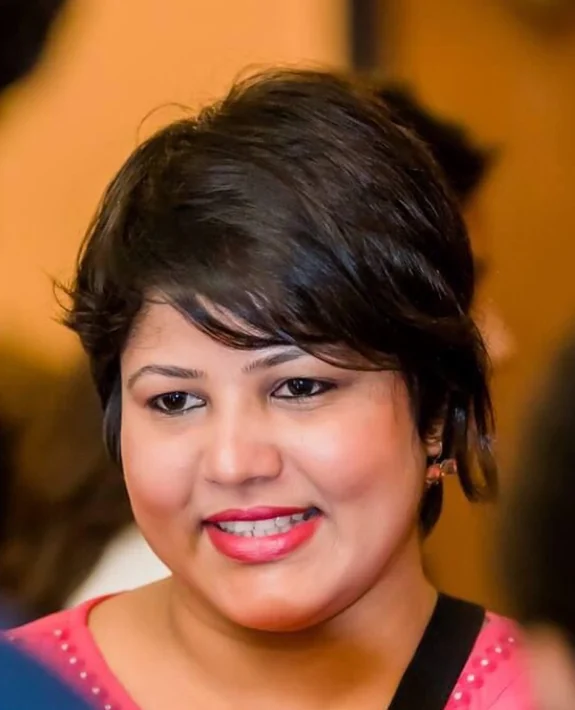
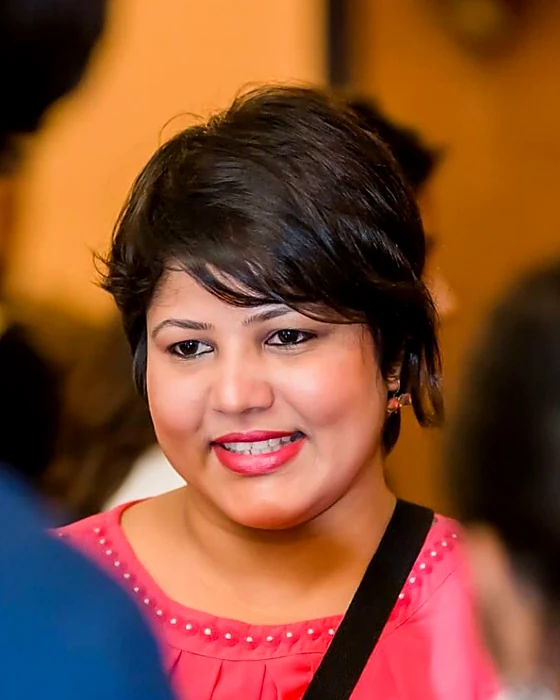
Sharper founder portrait; even spacing on the phone menu page

diff --git a/hair-colour-keratin-davangere.html b/hair-colour-keratin-davangere.html
@@ -20,7 +20,7 @@
 <link rel="apple-touch-icon" href="apple-touch-icon.png"><link rel="manifest" href="site.webmanifest">
 <link rel="preconnect" href="https://fonts.googleapis.com"><link rel="preconnect" href="https://fonts.gstatic.com" crossorigin>
 <link rel="stylesheet" href="https://fonts.googleapis.com/css2?family=Instrument+Serif:ital@0;1&family=Hanken+Grotesk:wght@400;500;600;700&display=swap">
-<link rel="stylesheet" href="css/site.css?v=9">
+<link rel="stylesheet" href="css/site.css?v=10">
 <script type="application/ld+json">[{"@context":"https://schema.org","@type":"Service","@id":"https://udaylal2k.github.io/shammy-site/hair-colour-keratin-davangere.html#service","name":"Hair colour, keratin and styling in Davangere","serviceType":"Hair salon service","description":"Hair colour, keratin, smoothing, cuts and hair spa in Davangere with L’Oréal Professionnel, Schwarzkopf and Wella. Led by Roopa G.R. Book on WhatsApp.","url":"https://udaylal2k.github.io/shammy-site/hair-colour-keratin-davangere.html","provider":{"@id":"https://udaylal2k.github.io/shammy-site/#business"},"areaServed":{"@type":"City","name":"Davangere"},"brand":[{"@type":"Brand","name":"L’Oréal Professionnel"},{"@type":"Brand","name":"Schwarzkopf"},{"@type":"Brand","name":"Wella Professionals"},{"@type":"Brand","name":"Moroccanoil"}],"hasOfferCatalog":{"@type":"OfferCatalog","name":"Hair colour, keratin and styling","itemListElement":[{"@type":"Offer","itemOffered":{"@type":"Service","name":"Basic Cut"}},{"@type":"Offer","itemOffered":{"@type":"Service","name":"Long Basic Cut"}},{"@type":"Offer","itemOffered":{"@type":"Service","name":"Long Layer Cut"}},{"@type":"Offer","itemOffered":{"@type":"Service","name":"Makeover"}},{"@type":"Offer","itemOffered":{"@type":"Service","name":"Director's Cut"}},{"@type":"Offer","itemOffered":{"@type":"Service","name":"Director's Long Layer Cut"}},{"@type":"Offer","itemOffered":{"@type":"Service","name":"Kids Hair Cut"}},{"@type":"Offer","itemOffered":{"@type":"Service","name":"Fringes"}},{"@type":"Offer","itemOffered":{"@type":"Service","name":"Single Highlights (min 3)"}},{"@type":"Offer","itemOffered":{"@type":"Service","name":"L'Oréal Ammonia-Free Colour"}},{"@type":"Offer","itemOffered":{"@type":"Service","name":"Root Touch Up"}},{"@type":"Offer","itemOffered":{"@type":"Service","name":"1 Inch Ammonia-Free"}},{"@type":"Offer","itemOffered":{"@type":"Service","name":"L'Oréal Texture Change"}},{"@type":"Offer","itemOffered":{"@type":"Service","name":"Smoothening (No Iron)"}},{"@type":"Offer","itemOffered":{"@type":"Service","name":"Straightening / Keratin"}},{"@type":"Offer","itemOffered":{"@type":"Service","name":"Coconut / Mint Oil"}},{"@type":"Offer","itemOffered":{"@type":"Service","name":"Olive / Almond Oil"}},{"@type":"Offer","itemOffered":{"@type":"Service","name":"Blend / Aroma Oil"}},{"@type":"Offer","itemOffered":{"@type":"Service","name":"Moroccanoil"}},{"@type":"Offer","itemOffered":{"@type":"Service","name":"L'Oréal Anti-Dandruff Treatment (No Massage)"}},{"@type":"Offer","itemOffered":{"@type":"Service","name":"Basic Spa (Cream)"}},{"@type":"Offer","itemOffered":{"@type":"Service","name":"Iluvia Nourishing (Cream)"}},{"@type":"Offer","itemOffered":{"@type":"Service","name":"Iluvia Repair (Cream & Oil)"}},{"@type":"Offer","itemOffered":{"@type":"Service","name":"Iluvia Smooth (Oil Massage & Cream)"}},{"@type":"Offer","itemOffered":{"@type":"Service","name":"Moroccanoil (Intense)"}},{"@type":"Offer","itemOffered":{"@type":"Service","name":"Regular Hair Cut"}},{"@type":"Offer","itemOffered":{"@type":"Service","name":"Stylish Hair Cut"}},{"@type":"Offer","itemOffered":{"@type":"Service","name":"Kids Regular Cut"}},{"@type":"Offer","itemOffered":{"@type":"Service","name":"Hair Wash & Styling"}},{"@type":"Offer","itemOffered":{"@type":"Service","name":"L'Oréal Half Head Ammonia-Free"}},{"@type":"Offer","itemOffered":{"@type":"Service","name":"L'Oréal Ammonia-Free"}},{"@type":"Offer","itemOffered":{"@type":"Service","name":"L'Oréal Fashion Colour"}},{"@type":"Offer","itemOffered":{"@type":"Service","name":"Beard Colouring"}},{"@type":"Offer","itemOffered":{"@type":"Service","name":"Moustache Colouring"}},{"@type":"Offer","itemOffered":{"@type":"Service","name":"Side Locks"}},{"@type":"Offer","itemOffered":{"@type":"Service","name":"L'Oréal Full Head Cap Streaks / Highlights"}},{"@type":"Offer","itemOffered":{"@type":"Service","name":"L'Oréal Per Streak / Highlight (min 3)"}},{"@type":"Offer","itemOffered":{"@type":"Service","name":"L'Oréal Straightening"}},{"@type":"Offer","itemOffered":{"@type":"Service","name":"Texture Change"}},{"@type":"Offer","itemOffered":{"@type":"Service","name":"L'Oréal Smoothening"}}]}},{"@context":"https://schema.org","@type":"WebPage","@id":"https://udaylal2k.github.io/shammy-site/hair-colour-keratin-davangere.html#webpage","url":"https://udaylal2k.github.io/shammy-site/hair-colour-keratin-davangere.html","name":"Hair Colour, Keratin & Styling in Davangere | Shaamy Lounge","isPartOf":{"@id":"https://udaylal2k.github.io/shammy-site/#website"},"about":{"@id":"https://udaylal2k.github.io/shammy-site/hair-colour-keratin-davangere.html#service"},"breadcrumb":{"@id":"https://udaylal2k.github.io/shammy-site/hair-colour-keratin-davangere.html#breadcrumb"}},{"@context":"https://schema.org","@type":"BreadcrumbList","itemListElement":[{"@type":"ListItem","position":1,"name":"Home","item":"https://udaylal2k.github.io/shammy-site/"},{"@type":"ListItem","position":2,"name":"Hair colour, keratin and styling","item":"https://udaylal2k.github.io/shammy-site/hair-colour-keratin-davangere.html"}],"@id":"https://udaylal2k.github.io/shammy-site/hair-colour-keratin-davangere.html#breadcrumb"},{"@context":"https://schema.org","@type":["HairSalon","BeautySalon"],"@id":"https://udaylal2k.github.io/shammy-site/#business","name":"Shaamy Lounge Unisex Salon","url":"https://udaylal2k.github.io/shammy-site/"}]</script>
 </head>
 <body>
@@ -53,5 +53,5 @@
 <p class="fine">Roma Salon – Shaamy Lounge Unisex Salon · GSTIN 29AJLPR1452M1ZL · © 2026 Shaamy Lounge</p>
 </footer>
 <nav class="dock" aria-label="Quick actions"><a href="tel:+919538316195">Call</a><a class="wa" href="https://wa.me/919538316195?text=Hello%20Shaamy%20Lounge%2C%20I%20would%20like%20to%20book%20an%20appointment." target="_blank" rel="noopener">WhatsApp</a><a href="menu.html">Menu</a></nav>
-<script src="js/site.js?v=9" defer></script>
+<script src="js/site.js?v=10" defer></script>
 </body></html>

diff --git a/mens-grooming-davangere.html b/mens-grooming-davangere.html
@@ -20,7 +20,7 @@
 <link rel="apple-touch-icon" href="apple-touch-icon.png"><link rel="manifest" href="site.webmanifest">
 <link rel="preconnect" href="https://fonts.googleapis.com"><link rel="preconnect" href="https://fonts.gstatic.com" crossorigin>
 <link rel="stylesheet" href="https://fonts.googleapis.com/css2?family=Instrument+Serif:ital@0;1&family=Hanken+Grotesk:wght@400;500;600;700&display=swap">
-<link rel="stylesheet" href="css/site.css?v=9">
+<link rel="stylesheet" href="css/site.css?v=10">
 <script type="application/ld+json">[{"@context":"https://schema.org","@type":"Service","@id":"https://udaylal2k.github.io/shammy-site/mens-grooming-davangere.html#service","name":"Men's grooming in Davangere","serviceType":"Men's grooming service","description":"Men's haircuts, beard shape, hair colour, keratin, hair spa, facials and waxing in Davangere at Shaamy Lounge unisex salon. Book on WhatsApp.","url":"https://udaylal2k.github.io/shammy-site/mens-grooming-davangere.html","provider":{"@id":"https://udaylal2k.github.io/shammy-site/#business"},"areaServed":{"@type":"City","name":"Davangere"},"brand":[{"@type":"Brand","name":"L’Oréal Professionnel"},{"@type":"Brand","name":"Moroccanoil"},{"@type":"Brand","name":"Kanpeki Japan"},{"@type":"Brand","name":"O3+"}],"hasOfferCatalog":{"@type":"OfferCatalog","name":"Men's grooming","itemListElement":[{"@type":"Offer","itemOffered":{"@type":"Service","name":"Regular Hair Cut"}},{"@type":"Offer","itemOffered":{"@type":"Service","name":"Stylish Hair Cut"}},{"@type":"Offer","itemOffered":{"@type":"Service","name":"Kids Regular Cut"}},{"@type":"Offer","itemOffered":{"@type":"Service","name":"Hair Wash & Styling"}},{"@type":"Offer","itemOffered":{"@type":"Service","name":"Beard Shape"}},{"@type":"Offer","itemOffered":{"@type":"Service","name":"Head Shave with Wash"}},{"@type":"Offer","itemOffered":{"@type":"Service","name":"L'Oréal Half Head Ammonia-Free"}},{"@type":"Offer","itemOffered":{"@type":"Service","name":"L'Oréal Ammonia-Free"}},{"@type":"Offer","itemOffered":{"@type":"Service","name":"L'Oréal Fashion Colour"}},{"@type":"Offer","itemOffered":{"@type":"Service","name":"Beard Colouring"}},{"@type":"Offer","itemOffered":{"@type":"Service","name":"Moustache Colouring"}},{"@type":"Offer","itemOffered":{"@type":"Service","name":"Side Locks"}},{"@type":"Offer","itemOffered":{"@type":"Service","name":"L'Oréal Full Head Cap Streaks / Highlights"}},{"@type":"Offer","itemOffered":{"@type":"Service","name":"L'Oréal Per Streak / Highlight (min 3)"}},{"@type":"Offer","itemOffered":{"@type":"Service","name":"Iluvia Nourishing (Cream)"}},{"@type":"Offer","itemOffered":{"@type":"Service","name":"L'Oréal Anti-Dandruff Spa"}},{"@type":"Offer","itemOffered":{"@type":"Service","name":"L'Oréal Clear Dose per Tube (Intense Dandruff)"}},{"@type":"Offer","itemOffered":{"@type":"Service","name":"L'Oréal Basic Spa (Cream)"}},{"@type":"Offer","itemOffered":{"@type":"Service","name":"Iluvia Repair (Cream & Oil)"}},{"@type":"Offer","itemOffered":{"@type":"Service","name":"Iluvia Smooth (Head Massage & Cream)"}},{"@type":"Offer","itemOffered":{"@type":"Service","name":"Moroccanoil Spa (Intense Treatment)"}},{"@type":"Offer","itemOffered":{"@type":"Service","name":"Basic Clean Up"}},{"@type":"Offer","itemOffered":{"@type":"Service","name":"Kanpeki (Japanese) Clean Up"}},{"@type":"Offer","itemOffered":{"@type":"Service","name":"Lotus Clean Up"}},{"@type":"Offer","itemOffered":{"@type":"Service","name":"O3 Clean Up"}},{"@type":"Offer","itemOffered":{"@type":"Service","name":"Sea Soul Organic (Australia)"}},{"@type":"Offer","itemOffered":{"@type":"Service","name":"Whitening Masque for Tanned Skin"}},{"@type":"Offer","itemOffered":{"@type":"Service","name":"Casmara Masque for All Skin Types"}},{"@type":"Offer","itemOffered":{"@type":"Service","name":"Eye Treatment"}},{"@type":"Offer","itemOffered":{"@type":"Service","name":"Kanpeki Fruit Facial"}},{"@type":"Offer","itemOffered":{"@type":"Service","name":"Absolute Lift for Aged Skin"}},{"@type":"Offer","itemOffered":{"@type":"Service","name":"O3 Whitening Facial"}},{"@type":"Offer","itemOffered":{"@type":"Service","name":"Lotus White Glow Facial"}},{"@type":"Offer","itemOffered":{"@type":"Service","name":"Instant Glow VLCC"}},{"@type":"Offer","itemOffered":{"@type":"Service","name":"Face"}},{"@type":"Offer","itemOffered":{"@type":"Service","name":"Neck"}},{"@type":"Offer","itemOffered":{"@type":"Service","name":"Face & Neck"}},{"@type":"Offer","itemOffered":{"@type":"Service","name":"Under Arms"}},{"@type":"Offer","itemOffered":{"@type":"Service","name":"Half Arms"}},{"@type":"Offer","itemOffered":{"@type":"Service","name":"Full Arms"}}]}},{"@context":"https://schema.org","@type":"WebPage","@id":"https://udaylal2k.github.io/shammy-site/mens-grooming-davangere.html#webpage","url":"https://udaylal2k.github.io/shammy-site/mens-grooming-davangere.html","name":"Men's Grooming, Haircut & Beard in Davangere | Shaamy Lounge","isPartOf":{"@id":"https://udaylal2k.github.io/shammy-site/#website"},"about":{"@id":"https://udaylal2k.github.io/shammy-site/mens-grooming-davangere.html#service"},"breadcrumb":{"@id":"https://udaylal2k.github.io/shammy-site/mens-grooming-davangere.html#breadcrumb"}},{"@context":"https://schema.org","@type":"BreadcrumbList","itemListElement":[{"@type":"ListItem","position":1,"name":"Home","item":"https://udaylal2k.github.io/shammy-site/"},{"@type":"ListItem","position":2,"name":"Men's grooming","item":"https://udaylal2k.github.io/shammy-site/mens-grooming-davangere.html"}],"@id":"https://udaylal2k.github.io/shammy-site/mens-grooming-davangere.html#breadcrumb"},{"@context":"https://schema.org","@type":["HairSalon","BeautySalon"],"@id":"https://udaylal2k.github.io/shammy-site/#business","name":"Shaamy Lounge Unisex Salon","url":"https://udaylal2k.github.io/shammy-site/"}]</script>
 </head>
 <body>
@@ -53,5 +53,5 @@
 <p class="fine">Roma Salon – Shaamy Lounge Unisex Salon · GSTIN 29AJLPR1452M1ZL · © 2026 Shaamy Lounge</p>
 </footer>
 <nav class="dock" aria-label="Quick actions"><a href="tel:+919538316195">Call</a><a class="wa" href="https://wa.me/919538316195?text=Hello%20Shaamy%20Lounge%2C%20I%20would%20like%20to%20book%20an%20appointment." target="_blank" rel="noopener">WhatsApp</a><a href="menu.html">Menu</a></nav>
-<script src="js/site.js?v=9" defer></script>
+<script src="js/site.js?v=10" defer></script>
 </body></html>

diff --git a/facials-skin-treatments-davangere.html b/facials-skin-treatments-davangere.html
@@ -20,7 +20,7 @@
 <link rel="apple-touch-icon" href="apple-touch-icon.png"><link rel="manifest" href="site.webmanifest">
 <link rel="preconnect" href="https://fonts.googleapis.com"><link rel="preconnect" href="https://fonts.gstatic.com" crossorigin>
 <link rel="stylesheet" href="https://fonts.googleapis.com/css2?family=Instrument+Serif:ital@0;1&family=Hanken+Grotesk:wght@400;500;600;700&display=swap">
-<link rel="stylesheet" href="css/site.css?v=9">
+<link rel="stylesheet" href="css/site.css?v=10">
 <script type="application/ld+json">[{"@context":"https://schema.org","@type":"Service","@id":"https://udaylal2k.github.io/shammy-site/facials-skin-treatments-davangere.html#service","name":"Facials and skin treatments in Davangere","serviceType":"Facial and skin care service","description":"Restorative facials, hydra facials, clean-ups, de-tan and body massage in Davangere using Kanpeki, Janssen, O3+ and Kryolan. Book on WhatsApp.","url":"https://udaylal2k.github.io/shammy-site/facials-skin-treatments-davangere.html","provider":{"@id":"https://udaylal2k.github.io/shammy-site/#business"},"areaServed":{"@type":"City","name":"Davangere"},"brand":[{"@type":"Brand","name":"Kanpeki Japan"},{"@type":"Brand","name":"Janssen Germany"},{"@type":"Brand","name":"O3+"},{"@type":"Brand","name":"Kryolan"},{"@type":"Brand","name":"HydraFacial"}],"hasOfferCatalog":{"@type":"OfferCatalog","name":"Facials and skin treatments","itemListElement":[{"@type":"Offer","itemOffered":{"@type":"Service","name":"Basic Clean Up"}},{"@type":"Offer","itemOffered":{"@type":"Service","name":"Kanpeki (Japanese) Clean Up"}},{"@type":"Offer","itemOffered":{"@type":"Service","name":"Lotus Clean Up"}},{"@type":"Offer","itemOffered":{"@type":"Service","name":"O3 Clean Up"}},{"@type":"Offer","itemOffered":{"@type":"Service","name":"Sea Soul Organic (Australia)"}},{"@type":"Offer","itemOffered":{"@type":"Service","name":"Whitening Masque for Tanned Skin"}},{"@type":"Offer","itemOffered":{"@type":"Service","name":"Casmara Masque for All Skin Types"}},{"@type":"Offer","itemOffered":{"@type":"Service","name":"Eye Treatment"}},{"@type":"Offer","itemOffered":{"@type":"Service","name":"Kanpeki Fruit Facial"}},{"@type":"Offer","itemOffered":{"@type":"Service","name":"Absolute Lift for Aged Skin"}},{"@type":"Offer","itemOffered":{"@type":"Service","name":"O3 Whitening Facial"}},{"@type":"Offer","itemOffered":{"@type":"Service","name":"Lotus White Glow Facial"}},{"@type":"Offer","itemOffered":{"@type":"Service","name":"Instant Glow VLCC"}},{"@type":"Offer","itemOffered":{"@type":"Service","name":"Dead Sea Mineral Facial"}},{"@type":"Offer","itemOffered":{"@type":"Service","name":"CC Derma Crystal Clear Facial"}},{"@type":"Offer","itemOffered":{"@type":"Service","name":"Kanpeki Quinoa Facial"}},{"@type":"Offer","itemOffered":{"@type":"Service","name":"Charcoal Facial"}},{"@type":"Offer","itemOffered":{"@type":"Service","name":"Cryo Pigmentation Facial"}},{"@type":"Offer","itemOffered":{"@type":"Service","name":"Blanch Facial"}},{"@type":"Offer","itemOffered":{"@type":"Service","name":"Lotus Facial"}},{"@type":"Offer","itemOffered":{"@type":"Service","name":"Save the Date Bridal Facial"}},{"@type":"Offer","itemOffered":{"@type":"Service","name":"O3 Bridal Facial"}},{"@type":"Offer","itemOffered":{"@type":"Service","name":"Janssen Bridal Whitening Facial"}},{"@type":"Offer","itemOffered":{"@type":"Service","name":"Relaxing Body Massage"}},{"@type":"Offer","itemOffered":{"@type":"Service","name":"Kanpeki Body Spa"}},{"@type":"Offer","itemOffered":{"@type":"Service","name":"Full Back Scrubbing"}},{"@type":"Offer","itemOffered":{"@type":"Service","name":"Full Legs Massage"}},{"@type":"Offer","itemOffered":{"@type":"Service","name":"Body Spa"}},{"@type":"Offer","itemOffered":{"@type":"Service","name":"Deep Tissue Body Massage"}},{"@type":"Offer","itemOffered":{"@type":"Service","name":"Back Massage"}},{"@type":"Offer","itemOffered":{"@type":"Service","name":"Face"}},{"@type":"Offer","itemOffered":{"@type":"Service","name":"Neck"}},{"@type":"Offer","itemOffered":{"@type":"Service","name":"Face & Neck"}},{"@type":"Offer","itemOffered":{"@type":"Service","name":"Under Arms"}},{"@type":"Offer","itemOffered":{"@type":"Service","name":"Half Arms"}},{"@type":"Offer","itemOffered":{"@type":"Service","name":"Full Arms"}},{"@type":"Offer","itemOffered":{"@type":"Service","name":"Lower Back"}},{"@type":"Offer","itemOffered":{"@type":"Service","name":"Upper Back"}},{"@type":"Offer","itemOffered":{"@type":"Service","name":"Full Back"}},{"@type":"Offer","itemOffered":{"@type":"Service","name":"Stomach"}}]}},{"@context":"https://schema.org","@type":"WebPage","@id":"https://udaylal2k.github.io/shammy-site/facials-skin-treatments-davangere.html#webpage","url":"https://udaylal2k.github.io/shammy-site/facials-skin-treatments-davangere.html","name":"Facials & Skin Treatments in Davangere | Shaamy Lounge","isPartOf":{"@id":"https://udaylal2k.github.io/shammy-site/#website"},"about":{"@id":"https://udaylal2k.github.io/shammy-site/facials-skin-treatments-davangere.html#service"},"breadcrumb":{"@id":"https://udaylal2k.github.io/shammy-site/facials-skin-treatments-davangere.html#breadcrumb"}},{"@context":"https://schema.org","@type":"BreadcrumbList","itemListElement":[{"@type":"ListItem","position":1,"name":"Home","item":"https://udaylal2k.github.io/shammy-site/"},{"@type":"ListItem","position":2,"name":"Facials and skin treatments","item":"https://udaylal2k.github.io/shammy-site/facials-skin-treatments-davangere.html"}],"@id":"https://udaylal2k.github.io/shammy-site/facials-skin-treatments-davangere.html#breadcrumb"},{"@context":"https://schema.org","@type":["HairSalon","BeautySalon"],"@id":"https://udaylal2k.github.io/shammy-site/#business","name":"Shaamy Lounge Unisex Salon","url":"https://udaylal2k.github.io/shammy-site/"}]</script>
 </head>
 <body>
@@ -53,5 +53,5 @@
 <p class="fine">Roma Salon – Shaamy Lounge Unisex Salon · GSTIN 29AJLPR1452M1ZL · © 2026 Shaamy Lounge</p>
 </footer>
 <nav class="dock" aria-label="Quick actions"><a href="tel:+919538316195">Call</a><a class="wa" href="https://wa.me/919538316195?text=Hello%20Shaamy%20Lounge%2C%20I%20would%20like%20to%20book%20an%20appointment." target="_blank" rel="noopener">WhatsApp</a><a href="menu.html">Menu</a></nav>
-<script src="js/site.js?v=9" defer></script>
+<script src="js/site.js?v=10" defer></script>
 </body></html>

diff --git a/bridal-makeup-davangere.html b/bridal-makeup-davangere.html
@@ -20,7 +20,7 @@
 <link rel="apple-touch-icon" href="apple-touch-icon.png"><link rel="manifest" href="site.webmanifest">
 <link rel="preconnect" href="https://fonts.googleapis.com"><link rel="preconnect" href="https://fonts.gstatic.com" crossorigin>
 <link rel="stylesheet" href="https://fonts.googleapis.com/css2?family=Instrument+Serif:ital@0;1&family=Hanken+Grotesk:wght@400;500;600;700&display=swap">
-<link rel="stylesheet" href="css/site.css?v=9">
+<link rel="stylesheet" href="css/site.css?v=10">
 <script type="application/ld+json">[{"@context":"https://schema.org","@type":"Service","@id":"https://udaylal2k.github.io/shammy-site/bridal-makeup-davangere.html#service","name":"Bridal and occasion makeup in Davangere","serviceType":"Bridal makeup service","description":"Bridal and occasion makeup in Davangere by Roopa G.R., trained with Pivot Point, Kryolan and Dominic Cruz. MAC, Kryolan, HD and airbrush. Book a trial.","url":"https://udaylal2k.github.io/shammy-site/bridal-makeup-davangere.html","provider":{"@id":"https://udaylal2k.github.io/shammy-site/#business"},"areaServed":{"@type":"City","name":"Davangere"},"brand":[{"@type":"Brand","name":"MAC"},{"@type":"Brand","name":"Kryolan"},{"@type":"Brand","name":"HydraFacial"},{"@type":"Brand","name":"Janssen Germany"}],"hasOfferCatalog":{"@type":"OfferCatalog","name":"Bridal and occasion makeup","itemListElement":[{"@type":"Offer","itemOffered":{"@type":"Service","name":"Trial MAC"}},{"@type":"Offer","itemOffered":{"@type":"Service","name":"Trial Hair Do"}},{"@type":"Offer","itemOffered":{"@type":"Service","name":"Toppik Hair Filler"}},{"@type":"Offer","itemOffered":{"@type":"Service","name":"Saree Draping"}},{"@type":"Offer","itemOffered":{"@type":"Service","name":"Only Eyes"}},{"@type":"Offer","itemOffered":{"@type":"Service","name":"Party Makeup"}},{"@type":"Offer","itemOffered":{"@type":"Service","name":"Advanced Party Makeup"}},{"@type":"Offer","itemOffered":{"@type":"Service","name":"Complete Kryolan Makeup"}},{"@type":"Offer","itemOffered":{"@type":"Service","name":"Complete MAC Makeup"}},{"@type":"Offer","itemOffered":{"@type":"Service","name":"Complete HD Makeup"}},{"@type":"Offer","itemOffered":{"@type":"Service","name":"Complete Airbrush Makeup"}},{"@type":"Offer","itemOffered":{"@type":"Service","name":"Bridesmaid Regular"}},{"@type":"Offer","itemOffered":{"@type":"Service","name":"Bridesmaid Kryolan"}},{"@type":"Offer","itemOffered":{"@type":"Service","name":"Bridesmaid MAC"}},{"@type":"Offer","itemOffered":{"@type":"Service","name":"Bridesmaid MAC with Concealing & Contouring"}},{"@type":"Offer","itemOffered":{"@type":"Service","name":"Save the Date Bridal Facial"}},{"@type":"Offer","itemOffered":{"@type":"Service","name":"O3 Bridal Facial"}},{"@type":"Offer","itemOffered":{"@type":"Service","name":"Janssen Bridal Whitening Facial"}},{"@type":"Offer","itemOffered":{"@type":"Service","name":"Sides"}},{"@type":"Offer","itemOffered":{"@type":"Service","name":"Full Face"}},{"@type":"Offer","itemOffered":{"@type":"Service","name":"Under Arms"}},{"@type":"Offer","itemOffered":{"@type":"Service","name":"Half Arms"}},{"@type":"Offer","itemOffered":{"@type":"Service","name":"3/4 Arms"}},{"@type":"Offer","itemOffered":{"@type":"Service","name":"Full Arms"}},{"@type":"Offer","itemOffered":{"@type":"Service","name":"Upper Lip"}},{"@type":"Offer","itemOffered":{"@type":"Service","name":"Chin"}},{"@type":"Offer","itemOffered":{"@type":"Service","name":"Forehead"}},{"@type":"Offer","itemOffered":{"@type":"Service","name":"Lower Back"}},{"@type":"Offer","itemOffered":{"@type":"Service","name":"Upper Back"}},{"@type":"Offer","itemOffered":{"@type":"Service","name":"Full Back"}},{"@type":"Offer","itemOffered":{"@type":"Service","name":"Mid Rib"}},{"@type":"Offer","itemOffered":{"@type":"Service","name":"Stomach"}},{"@type":"Offer","itemOffered":{"@type":"Service","name":"Half Legs"}},{"@type":"Offer","itemOffered":{"@type":"Service","name":"3/4 Legs"}},{"@type":"Offer","itemOffered":{"@type":"Service","name":"Full Legs"}},{"@type":"Offer","itemOffered":{"@type":"Service","name":"Bikini Line"}},{"@type":"Offer","itemOffered":{"@type":"Service","name":"Bikini Wax"}},{"@type":"Offer","itemOffered":{"@type":"Service","name":"Full Body"}},{"@type":"Offer","itemOffered":{"@type":"Service","name":"Cut & File"}},{"@type":"Offer","itemOffered":{"@type":"Service","name":"Basic Manicure (Scrub Only)"}}]}},{"@context":"https://schema.org","@type":"WebPage","@id":"https://udaylal2k.github.io/shammy-site/bridal-makeup-davangere.html#webpage","url":"https://udaylal2k.github.io/shammy-site/bridal-makeup-davangere.html","name":"Bridal & Party Makeup in Davangere | Shaamy Lounge","isPartOf":{"@id":"https://udaylal2k.github.io/shammy-site/#website"},"about":{"@id":"https://udaylal2k.github.io/shammy-site/bridal-makeup-davangere.html#service"},"breadcrumb":{"@id":"https://udaylal2k.github.io/shammy-site/bridal-makeup-davangere.html#breadcrumb"}},{"@context":"https://schema.org","@type":"BreadcrumbList","itemListElement":[{"@type":"ListItem","position":1,"name":"Home","item":"https://udaylal2k.github.io/shammy-site/"},{"@type":"ListItem","position":2,"name":"Bridal and occasion makeup","item":"https://udaylal2k.github.io/shammy-site/bridal-makeup-davangere.html"}],"@id":"https://udaylal2k.github.io/shammy-site/bridal-makeup-davangere.html#breadcrumb"},{"@context":"https://schema.org","@type":["HairSalon","BeautySalon"],"@id":"https://udaylal2k.github.io/shammy-site/#business","name":"Shaamy Lounge Unisex Salon","url":"https://udaylal2k.github.io/shammy-site/"}]</script>
 </head>
 <body>
@@ -53,5 +53,5 @@
 <p class="fine">Roma Salon – Shaamy Lounge Unisex Salon · GSTIN 29AJLPR1452M1ZL · © 2026 Shaamy Lounge</p>
 </footer>
 <nav class="dock" aria-label="Quick actions"><a href="tel:+919538316195">Call</a><a class="wa" href="https://wa.me/919538316195?text=Hello%20Shaamy%20Lounge%2C%20I%20would%20like%20to%20book%20an%20appointment." target="_blank" rel="noopener">WhatsApp</a><a href="menu.html">Menu</a></nav>
-<script src="js/site.js?v=9" defer></script>
+<script src="js/site.js?v=10" defer></script>
 </body></html>

diff --git a/index.html b/index.html
@@ -20,7 +20,7 @@
 <link rel="apple-touch-icon" href="apple-touch-icon.png"><link rel="manifest" href="site.webmanifest">
 <link rel="preconnect" href="https://fonts.googleapis.com"><link rel="preconnect" href="https://fonts.gstatic.com" crossorigin>
 <link rel="stylesheet" href="https://fonts.googleapis.com/css2?family=Instrument+Serif:ital@0;1&family=Hanken+Grotesk:wght@400;500;600;700&display=swap">
-<link rel="stylesheet" href="css/site.css?v=9">
+<link rel="stylesheet" href="css/site.css?v=10">
 <link rel="preload" as="image" href="images/roopa-hero.webp" type="image/webp"><script type="application/ld+json">[{"@context":"https://schema.org","@type":["HairSalon","BeautySalon"],"@id":"https://udaylal2k.github.io/shammy-site/#business","name":"Shaamy Lounge Unisex Salon","alternateName":"Shaamy Lounge","url":"https://udaylal2k.github.io/shammy-site/","logo":"https://udaylal2k.github.io/shammy-site/images/icon-512.png","image":["https://udaylal2k.github.io/shammy-site/images/og-image.jpg","https://udaylal2k.github.io/shammy-site/images/salon-floor.jpg","https://udaylal2k.github.io/shammy-site/images/reception.jpg"],"description":"Davangere's luxury unisex salon for hair colour, keratin, facials, bridal makeup and men's grooming, led by Roopa G.R. with 20+ years of experience.","telephone":["+91 9538316195","+91 9620716325"],"email":"roopargujjar@gmail.com","foundingDate":"2015","hasMap":"https://www.google.com/maps/search/?api=1&query=Shaamy+Lounge+Unisex+Salon+MCC+B+Block+Davangere","address":{"@type":"PostalAddress","streetAddress":"4th Main Road, 3rd Cross, Above Biba Clothing Store, MCC B Block","addressLocality":"Davangere","addressRegion":"Karnataka","postalCode":"577004","addressCountry":"IN"},"areaServed":{"@type":"City","name":"Davangere"},"founder":{"@type":"Person","name":"Roopa G.R","jobTitle":"Founder, hair stylist, makeup artist and skin consultant","alumniOf":["L’Oréal Hair Academy","TONI&GUY Singapore","Pivot Point","Kryolan","Thalion France"]},"taxID":"29AJLPR1452M1ZL","makesOffer":[{"@type":"Offer","itemOffered":{"@type":"Service","name":"Hair colour, keratin and styling","url":"https://udaylal2k.github.io/shammy-site/hair-colour-keratin-davangere.html"}},{"@type":"Offer","itemOffered":{"@type":"Service","name":"Facials and skin treatments","url":"https://udaylal2k.github.io/shammy-site/facials-skin-treatments-davangere.html"}},{"@type":"Offer","itemOffered":{"@type":"Service","name":"Bridal and occasion makeup","url":"https://udaylal2k.github.io/shammy-site/bridal-makeup-davangere.html"}},{"@type":"Offer","itemOffered":{"@type":"Service","name":"Men's grooming","url":"https://udaylal2k.github.io/shammy-site/mens-grooming-davangere.html"}}]},{"@context":"https://schema.org","@type":"WebSite","@id":"https://udaylal2k.github.io/shammy-site/#website","url":"https://udaylal2k.github.io/shammy-site/","name":"Shaamy Lounge","inLanguage":"en-IN","publisher":{"@id":"https://udaylal2k.github.io/shammy-site/#business"}},{"@context":"https://schema.org","@type":"WebPage","@id":"https://udaylal2k.github.io/shammy-site/#webpage","url":"https://udaylal2k.github.io/shammy-site/","name":"Shaamy Lounge | Luxury Unisex Salon in Davangere","isPartOf":{"@id":"https://udaylal2k.github.io/shammy-site/#website"},"about":{"@id":"https://udaylal2k.github.io/shammy-site/#business"},"primaryImageOfPage":"https://udaylal2k.github.io/shammy-site/images/og-image.jpg"}]</script>
 </head>
 <body>
@@ -35,7 +35,7 @@
 <div class="head">
 <h1><span class="nm" data-split>Roopa G.R.</span><span class="role">Founder of Shaamy Lounge, Davangere</span></h1>
 </div>
-<div class="pic"><div class="frame"><picture><source type="image/webp" srcset="images/roopa-hero-640.webp 575w, images/roopa-hero.webp 862w" sizes="(min-width:901px) 40vw, 92vw"><img src="images/roopa-hero.jpg" alt="Roopa G.R., founder of Shaamy Lounge, smiling" width="862" height="1065" fetchpriority="high" decoding="async"></picture><p class="plate"><span><b>Roopa G.R.</b> Hair · Makeup · Skin</span><img src="images/logo-brand.png" alt="Shaamy Lounge Unisex Saloon" width="999" height="183"></p></div></div>
+<div class="pic"><div class="frame"><picture><source type="image/webp" srcset="images/roopa-hero-640.webp 560w, images/roopa-hero.webp 710w" sizes="(min-width:901px) 40vw, 92vw"><img src="images/roopa-hero.jpg" alt="Roopa G.R., founder of Shaamy Lounge, smiling" width="710" height="888" fetchpriority="high" decoding="async"></picture><p class="plate"><span><b>Roopa G.R.</b> Hair · Makeup · Skin</span><img src="images/logo-brand.png" alt="Shaamy Lounge Unisex Saloon" width="999" height="183"></p></div></div>
 <div class="foot">
 <p class="lead">Hair stylist, makeup artist and skin consultant with 20+ years of craft, trained with L’Oréal, TONI&amp;GUY Singapore and Pivot Point. She leads Davangere’s luxury unisex salon on MCC B Block.</p>
 <div class="actions"><a class="btn" data-magnetic href="#book">Book with Roopa</a><a class="btn ghost" href="menu.html">See the menu</a></div>
@@ -153,5 +153,5 @@
 <p class="fine">Roma Salon – Shaamy Lounge Unisex Salon · GSTIN 29AJLPR1452M1ZL · © 2026 Shaamy Lounge</p>
 </footer>
 <nav class="dock" aria-label="Quick actions"><a href="tel:+919538316195">Call</a><a class="wa" href="https://wa.me/919538316195?text=Hello%20Shaamy%20Lounge%2C%20I%20would%20like%20to%20book%20an%20appointment." target="_blank" rel="noopener">WhatsApp</a><a href="menu.html">Menu</a></nav>
-<script src="js/site.js?v=9" defer></script>
+<script src="js/site.js?v=10" defer></script>
 </body></html>

diff --git a/story.html b/story.html
@@ -20,7 +20,7 @@
 <link rel="apple-touch-icon" href="apple-touch-icon.png"><link rel="manifest" href="site.webmanifest">
 <link rel="preconnect" href="https://fonts.googleapis.com"><link rel="preconnect" href="https://fonts.gstatic.com" crossorigin>
 <link rel="stylesheet" href="https://fonts.googleapis.com/css2?family=Instrument+Serif:ital@0;1&family=Hanken+Grotesk:wght@400;500;600;700&display=swap">
-<link rel="stylesheet" href="css/site.css?v=9">
+<link rel="stylesheet" href="css/site.css?v=10">
 <script type="application/ld+json">[{"@context":"https://schema.org","@type":"AboutPage","@id":"https://udaylal2k.github.io/shammy-site/story.html#webpage","url":"https://udaylal2k.github.io/shammy-site/story.html","name":"Our Story: Roopa G.R. & Shaamy Lounge","isPartOf":{"@id":"https://udaylal2k.github.io/shammy-site/#website"},"about":{"@id":"https://udaylal2k.github.io/shammy-site/story.html#roopa"},"breadcrumb":{"@id":"https://udaylal2k.github.io/shammy-site/story.html#breadcrumb"}},{"@context":"https://schema.org","@type":"Person","@id":"https://udaylal2k.github.io/shammy-site/story.html#roopa","name":"Roopa G.R","jobTitle":"Founder, hair stylist, makeup artist, colorist and skin consultant","image":"https://udaylal2k.github.io/shammy-site/images/roopa.jpg","worksFor":{"@id":"https://udaylal2k.github.io/shammy-site/#business"},"alumniOf":["L’Oréal Hair Academy","TONI&GUY Singapore","Pivot Point","Kryolan","Thalion France","City & Guilds"],"knowsAbout":["Hair colouring","Keratin treatments","Bridal makeup","Skin care","Hair styling"]},{"@context":"https://schema.org","@type":"BreadcrumbList","itemListElement":[{"@type":"ListItem","position":1,"name":"Home","item":"https://udaylal2k.github.io/shammy-site/"},{"@type":"ListItem","position":2,"name":"Our story","item":"https://udaylal2k.github.io/shammy-site/story.html"}],"@id":"https://udaylal2k.github.io/shammy-site/story.html#breadcrumb"},{"@context":"https://schema.org","@type":["HairSalon","BeautySalon"],"@id":"https://udaylal2k.github.io/shammy-site/#business","name":"Shaamy Lounge Unisex Salon","url":"https://udaylal2k.github.io/shammy-site/"}]</script>
 </head>
 <body>
@@ -47,5 +47,5 @@
 <p class="fine">Roma Salon – Shaamy Lounge Unisex Salon · GSTIN 29AJLPR1452M1ZL · © 2026 Shaamy Lounge</p>
 </footer>
 <nav class="dock" aria-label="Quick actions"><a href="tel:+919538316195">Call</a><a class="wa" href="https://wa.me/919538316195?text=Hello%20Shaamy%20Lounge%2C%20I%20would%20like%20to%20book%20an%20appointment." target="_blank" rel="noopener">WhatsApp</a><a href="menu.html">Menu</a></nav>
-<script src="js/site.js?v=9" defer></script>
+<script src="js/site.js?v=10" defer></script>
 </body></html>

diff --git a/menu.html b/menu.html
@@ -20,7 +20,7 @@
 <link rel="apple-touch-icon" href="apple-touch-icon.png"><link rel="manifest" href="site.webmanifest">
 <link rel="preconnect" href="https://fonts.googleapis.com"><link rel="preconnect" href="https://fonts.gstatic.com" crossorigin>
 <link rel="stylesheet" href="https://fonts.googleapis.com/css2?family=Instrument+Serif:ital@0;1&family=Hanken+Grotesk:wght@400;500;600;700&display=swap">
-<link rel="stylesheet" href="css/site.css?v=9">
+<link rel="stylesheet" href="css/site.css?v=10">
 <script type="application/ld+json">[{"@context":"https://schema.org","@type":"WebPage","@id":"https://udaylal2k.github.io/shammy-site/menu.html#webpage","url":"https://udaylal2k.github.io/shammy-site/menu.html","name":"Salon Menu for Women & Men in Davangere","isPartOf":{"@id":"https://udaylal2k.github.io/shammy-site/#website"},"about":{"@id":"https://udaylal2k.github.io/shammy-site/#business"},"breadcrumb":{"@id":"https://udaylal2k.github.io/shammy-site/menu.html#breadcrumb"}},{"@context":"https://schema.org","@type":"BreadcrumbList","itemListElement":[{"@type":"ListItem","position":1,"name":"Home","item":"https://udaylal2k.github.io/shammy-site/"},{"@type":"ListItem","position":2,"name":"Menu","item":"https://udaylal2k.github.io/shammy-site/menu.html"}],"@id":"https://udaylal2k.github.io/shammy-site/menu.html#breadcrumb"},{"@context":"https://schema.org","@type":["HairSalon","BeautySalon"],"@id":"https://udaylal2k.github.io/shammy-site/#business","name":"Shaamy Lounge Unisex Salon","url":"https://udaylal2k.github.io/shammy-site/","hasMenu":"https://udaylal2k.github.io/shammy-site/menu.html"}]</script>
 </head>
 <body>
@@ -46,5 +46,5 @@
 <p class="fine">Roma Salon – Shaamy Lounge Unisex Salon · GSTIN 29AJLPR1452M1ZL · © 2026 Shaamy Lounge</p>
 </footer>
 <nav class="dock" aria-label="Quick actions"><a href="tel:+919538316195">Call</a><a class="wa" href="https://wa.me/919538316195?text=Hello%20Shaamy%20Lounge%2C%20I%20would%20like%20to%20book%20an%20appointment." target="_blank" rel="noopener">WhatsApp</a><a href="menu.html">Menu</a></nav>
-<script src="js/site.js?v=9" defer></script>
+<script src="js/site.js?v=10" defer></script>
 </body></html>

diff --git a/404.html b/404.html
@@ -20,7 +20,7 @@
 <link rel="apple-touch-icon" href="apple-touch-icon.png"><link rel="manifest" href="site.webmanifest">
 <link rel="preconnect" href="https://fonts.googleapis.com"><link rel="preconnect" href="https://fonts.gstatic.com" crossorigin>
 <link rel="stylesheet" href="https://fonts.googleapis.com/css2?family=Instrument+Serif:ital@0;1&family=Hanken+Grotesk:wght@400;500;600;700&display=swap">
-<link rel="stylesheet" href="css/site.css?v=9">
+<link rel="stylesheet" href="css/site.css?v=10">
 
 </head>
 <body>
@@ -40,5 +40,5 @@
 <p class="fine">Roma Salon – Shaamy Lounge Unisex Salon · GSTIN 29AJLPR1452M1ZL · © 2026 Shaamy Lounge</p>
 </footer>
 <nav class="dock" aria-label="Quick actions"><a href="tel:+919538316195">Call</a><a class="wa" href="https://wa.me/919538316195?text=Hello%20Shaamy%20Lounge%2C%20I%20would%20like%20to%20book%20an%20appointment." target="_blank" rel="noopener">WhatsApp</a><a href="menu.html">Menu</a></nav>
-<script src="js/site.js?v=9" defer></script>
+<script src="js/site.js?v=10" defer></script>
 </body></html>

diff --git a/css/site.css b/css/site.css
@@ -601,3 +601,19 @@ h3{line-height:1.05}
 .stat .num{font-size:clamp(72px,9vw,128px);line-height:.95;letter-spacing:0;font-variant-numeric:lining-nums;margin:0}
 .stat p:last-child{font-size:clamp(16px,1.3vw,19px);line-height:1.4;max-width:none;text-wrap:balance;color:#F0DDEE}
 @media(max-width:760px){.stats{grid-template-columns:1fr;gap:28px;padding-block:48px}.stat .num{font-size:72px}.stat p:last-child{font-size:16px}}
+
+/* menu page, phones: even rhythm between tabs, search, section chips and categories */
+@media(max-width:760px){
+  .page-head{padding-bottom:36px}
+  .tools .tabs{margin-bottom:16px}
+  .search{margin-bottom:0}
+  .chips{flex-wrap:wrap;overflow:visible;gap:8px;margin:20px 0 32px;padding:0}
+  .chips a{flex:1 1 calc(50% - 8px);justify-content:center;min-height:48px}
+  .menu-group{margin-bottom:56px;scroll-margin-top:96px}
+  .menu-group>h2{margin-bottom:.45em}
+  .cats{gap:10px}
+  .cat>summary{padding:18px 20px;min-height:64px}
+  .cat ul{padding:4px 20px 18px}
+  .cat li{padding:.7em 0}
+  .note{margin-top:8px}
+}
